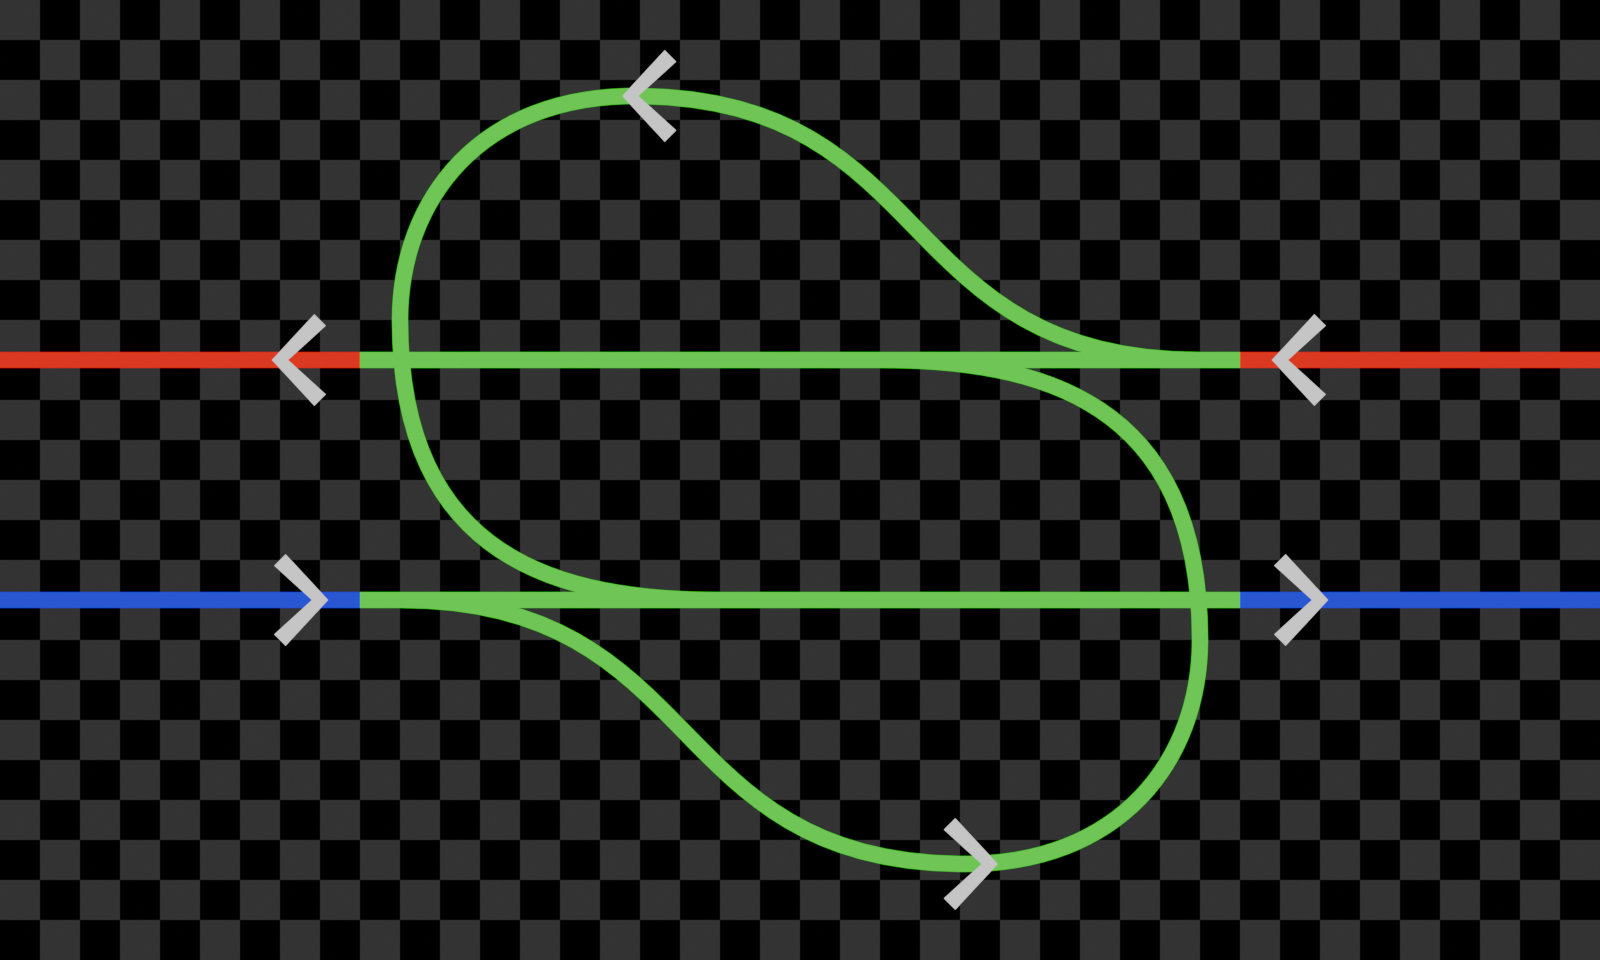
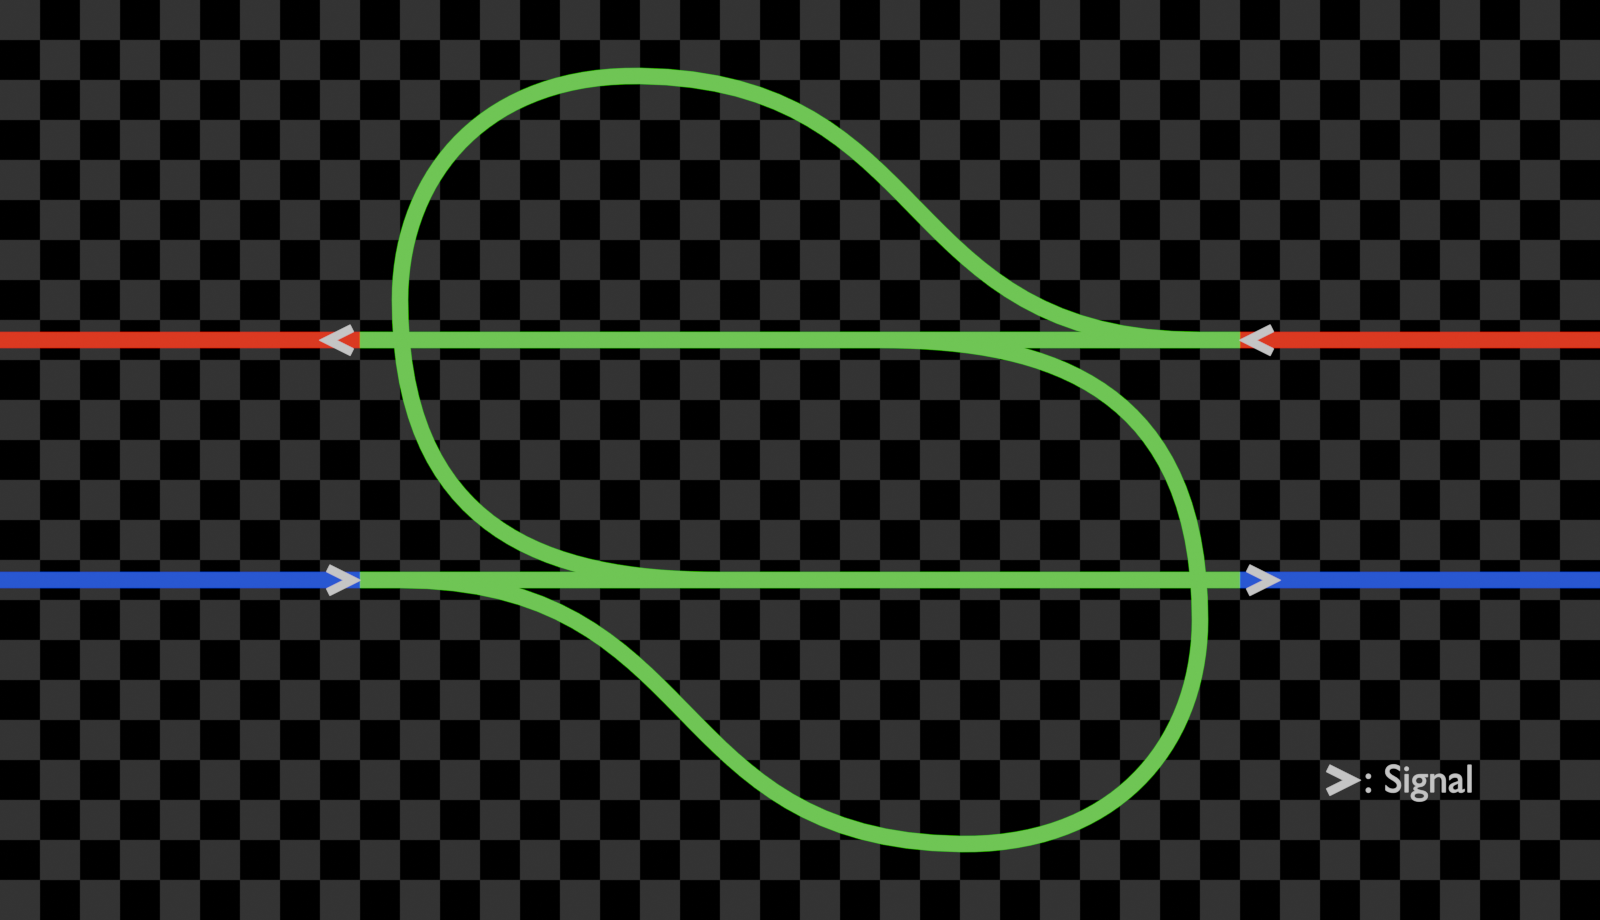
junction design

diff --git a/site/_layouts/default.html b/site/_layouts/default.html
@@ -9,6 +9,7 @@
         <header>
             <a href="/End-Rail/">Home</a>
             <a href="/End-Rail/manual/">ELR Manual</a>
+            <a href="/End-Rail/map">The Map</a>
             <a href="/End-Rail/about">About ELR</a>
         </header>
         <br>

diff --git a/site/manual/tracks-intersections.md b/site/manual/tracks-intersections.md
@@ -23,4 +23,13 @@ Junctions merge two or more lines together, allowing trains to cross to
 other lines. These are used when joining side routes with the main line,
 or when merging two main lines together. On ELR lines, junctions will
 usually be 2:2 (two lines to two lines) or 1:2, as the main line is two
-lines.
+lines, and usually either 3-way or 4-way (as in the number of directions
+available)
+
+Below is the design of a 3-way junction.
+
+![Three-way junction design](./3_way_junction.png)
+
+This image shows a process for constructing that junction.
+
+![Three-way junction build](./3_way_junction_build.gif)

diff --git a/site/map.md b/site/map.md
@@ -1,0 +1,14 @@
+# The Map
+
+This map is an up-to-date map of all rail lines on the server, in all
+applicable dimensions.
+
+### Overworld
+
+Coming soon!
+<!--![Overworld Map](./overworld_map.png)-->
+
+### Nether
+
+Coming soon!
+<!--![Nether Map](./nether_map.png)-->

diff --git a/site/index.md b/site/index.md
@@ -12,8 +12,3 @@ across the entire server.
 
 This text provides further information on the Company, as well as a copy
 of the ELR Manual in full. Read on for more.
-
-## Contents
-
-- [ELR Manual](./manual/index)
-- [About the Company](./about)
